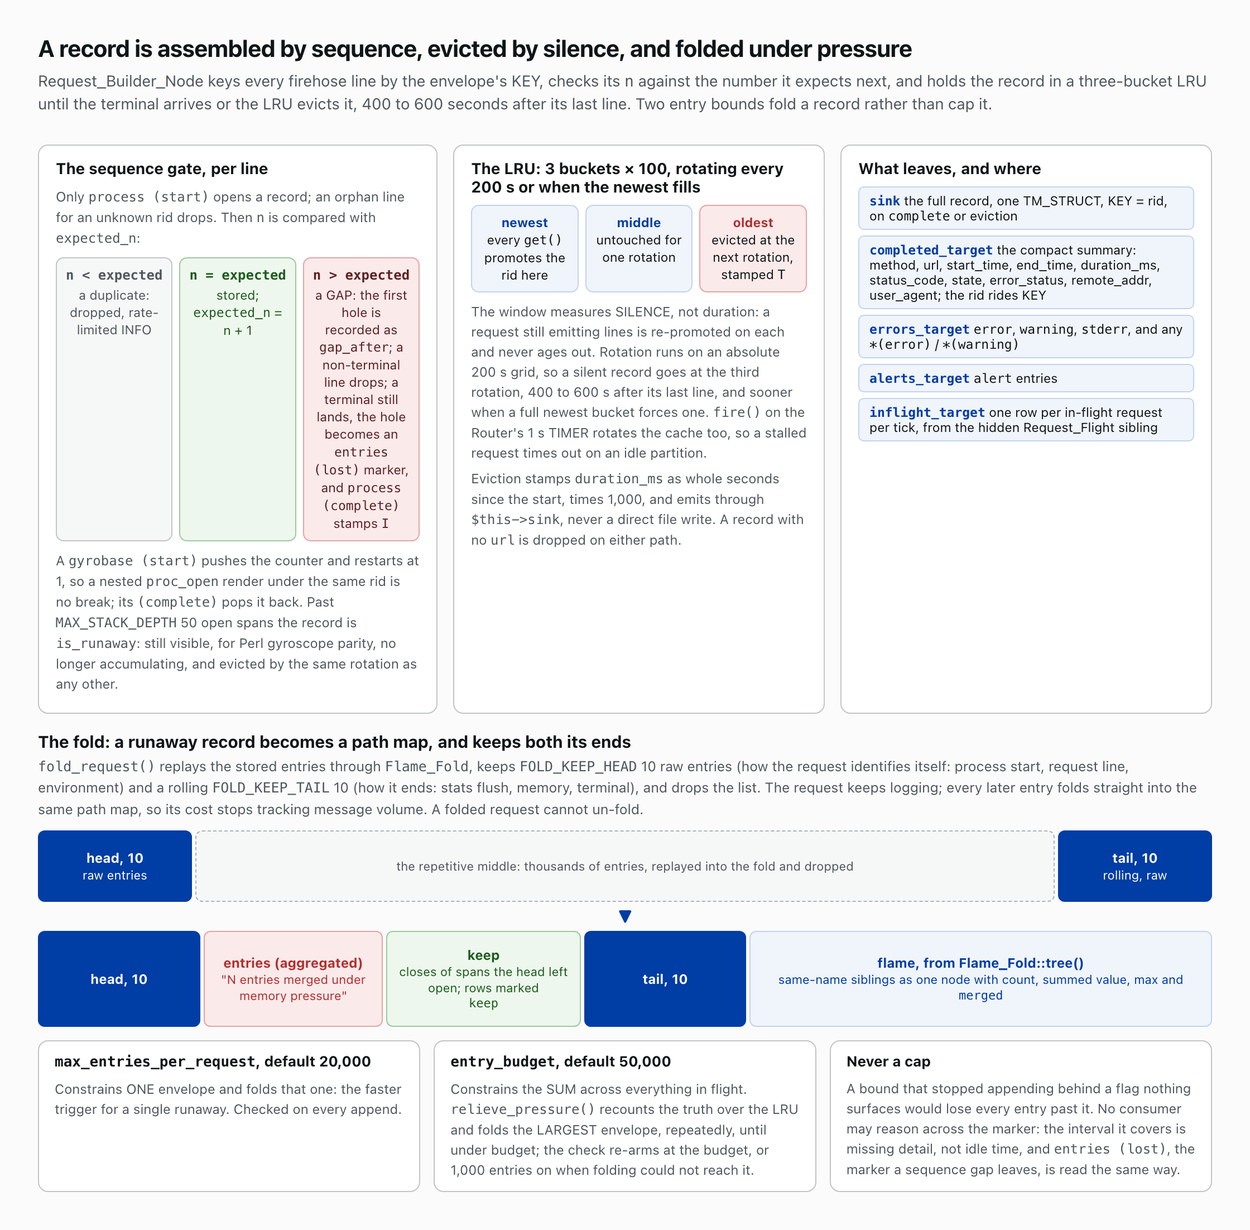
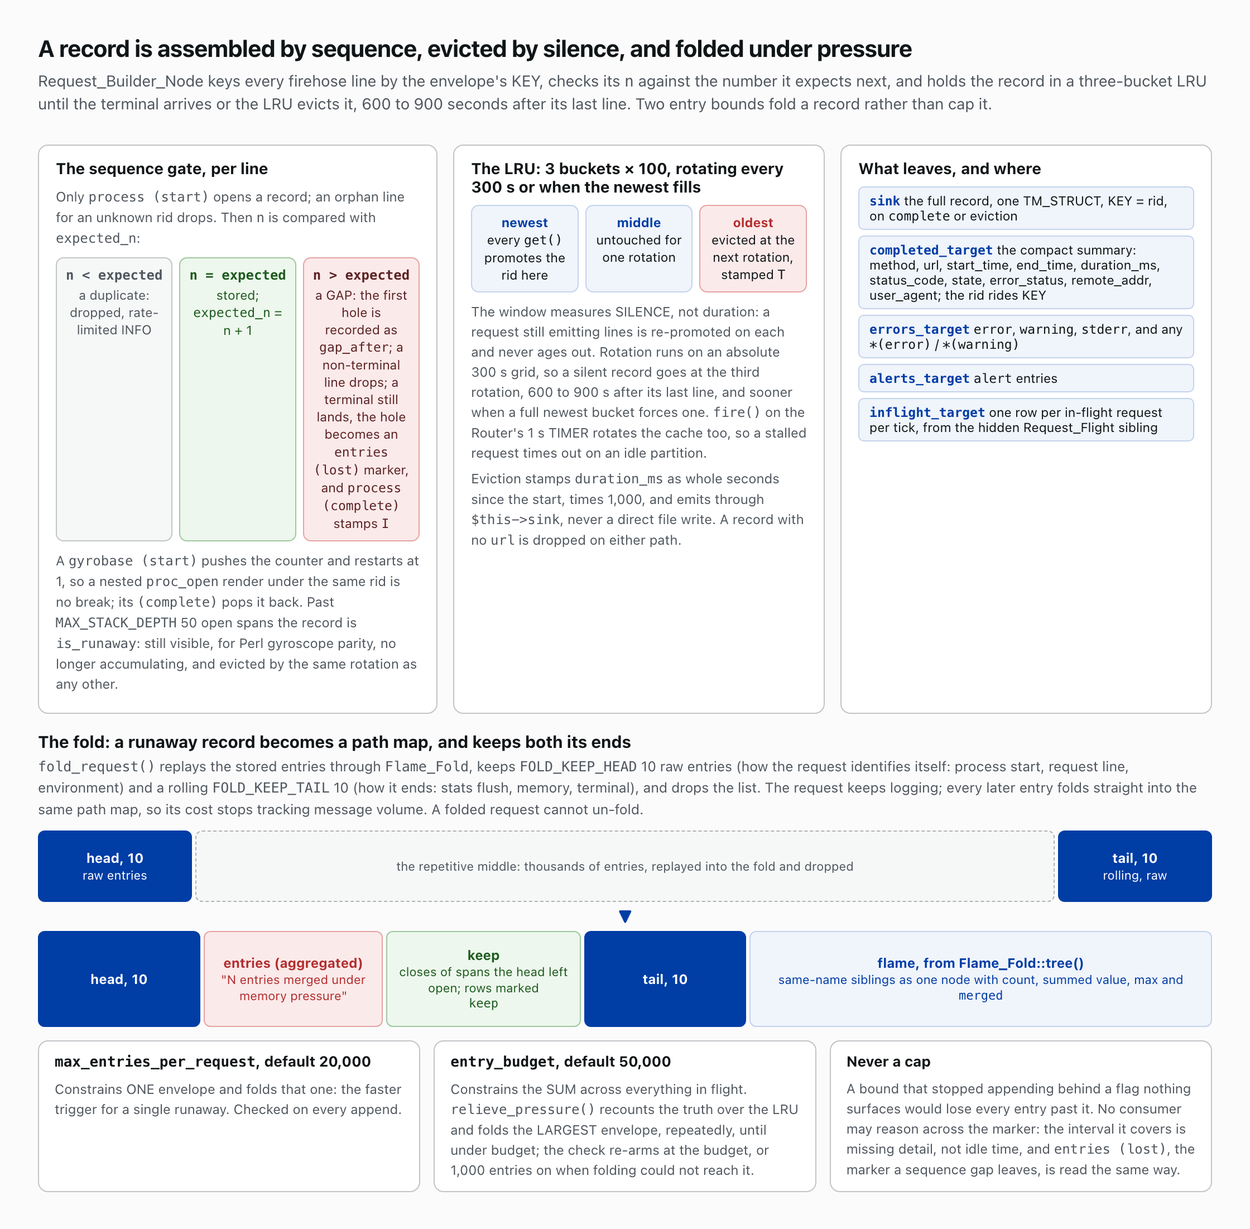
fix(request-builder): the eviction window outlasts a worker's lifetime
A silent request was evicted as timed out 400 to 600 seconds after its
last line, and a worker's `v1/workers/spawn` request lives the worker's
whole 595-second `max_runtime`, so every one of them was written out with
`error_status='T'` before its terminal arrived. The LRU rotates every 300
seconds now, so the window is 600 to 900; the docs, the diagrams and the
debugging skill say so, and a test pins the window past the lifetime.

diff --git a/docs/img/ag-request-assembly.html b/docs/img/ag-request-assembly.html
@@ -39,7 +39,7 @@
 </style>
 <div class="sheet">
 <h1>A record is assembled by sequence, evicted by silence, and folded under pressure</h1>
-<p class="sub">Request_Builder_Node keys every firehose line by the envelope's KEY, checks its <span class="mono">n</span> against the number it expects next, and holds the record in a three-bucket LRU until the terminal arrives or the LRU evicts it, 400 to 600 seconds after its last line. Two entry bounds fold a record rather than cap it.</p>
+<p class="sub">Request_Builder_Node keys every firehose line by the envelope's KEY, checks its <span class="mono">n</span> against the number it expects next, and holds the record in a three-bucket LRU until the terminal arrives or the LRU evicts it, 600 to 900 seconds after its last line. Two entry bounds fold a record rather than cap it.</p>
 
 <div class="top">
   <div class="card">
@@ -53,13 +53,13 @@
     <p>A <span class="mono">gyrobase (start)</span> pushes the counter and restarts at 1, so a nested <span class="mono">proc_open</span> render under the same rid is no break; its <span class="mono">(complete)</span> pops it back. Past <span class="mono">MAX_STACK_DEPTH</span> 50 open spans the record is <span class="mono">is_runaway</span>: still visible, for Perl gyroscope parity, no longer accumulating, and evicted by the same rotation as any other.</p>
   </div>
   <div class="card">
-    <h3>The LRU: 3 buckets × 100, rotating every 200 s or when the newest fills</h3>
+    <h3>The LRU: 3 buckets × 100, rotating every 300 s or when the newest fills</h3>
     <div class="buckets">
       <div class="bk"><b>newest</b>every <span class="mono">get()</span> promotes the rid here</div>
       <div class="bk"><b>middle</b>untouched for one rotation</div>
       <div class="bk old"><b>oldest</b>evicted at the next rotation, stamped <span class="mono">T</span></div>
     </div>
-    <p>The window measures SILENCE, not duration: a request still emitting lines is re-promoted on each and never ages out. Rotation runs on an absolute 200 s grid, so a silent record goes at the third rotation, 400 to 600 s after its last line, and sooner when a full newest bucket forces one. <span class="mono">fire()</span> on the Router's 1 s TIMER rotates the cache too, so a stalled request times out on an idle partition.</p><p>Eviction stamps <span class="mono">duration_ms</span> as whole seconds since the start, times 1,000, and emits through <span class="mono">$this-&gt;sink</span>, never a direct file write. A record with no <span class="mono">url</span> is dropped on either path.</p>
+    <p>The window measures SILENCE, not duration: a request still emitting lines is re-promoted on each and never ages out. Rotation runs on an absolute 300 s grid, so a silent record goes at the third rotation, 600 to 900 s after its last line, and sooner when a full newest bucket forces one. <span class="mono">fire()</span> on the Router's 1 s TIMER rotates the cache too, so a stalled request times out on an idle partition.</p><p>Eviction stamps <span class="mono">duration_ms</span> as whole seconds since the start, times 1,000, and emits through <span class="mono">$this-&gt;sink</span>, never a direct file write. A record with no <span class="mono">url</span> is dropped on either path.</p>
   </div>
   <div class="card">
     <h3>What leaves, and where</h3>

diff --git a/docs/img/dec-bucket-filing.html b/docs/img/dec-bucket-filing.html
@@ -80,7 +80,7 @@
     <div class="step">
       <h3>1 · Which bucket: the completion, clamped</h3>
       <div class="formula">bucket = min( now, timestamp + round( duration_ms / 1000 ) )</div>
-      <p>Filing under <span class="m">timestamp</span>, the START, would put a long request in a bucket that may already have closed. Completion needs no new field, and for an aborted request it is the abort moment, because <span class="m">Request_Builder</span> sets <span class="m">duration_ms = now - start</span> at eviction. That removes the request's own duration from the exposure, which the 600 s assembly window bounds at ten minutes.</p>
+      <p>Filing under <span class="m">timestamp</span>, the START, would put a long request in a bucket that may already have closed. Completion needs no new field, and for an aborted request it is the abort moment, because <span class="m">Request_Builder</span> sets <span class="m">duration_ms = now - start</span> at eviction. That removes the request's own duration from the exposure, which the 900 s assembly window bounds at fifteen minutes.</p>
       <p><b>Clamped to now:</b> a completed request cannot have finished after it reached us, so a skewed spoke clock or a bogus duration cannot file into a future bucket that readers, walking backwards from now, would never reach.</p>
     </div>
     <div class="arrow">&rarr;</div>

diff --git a/docs/img/d06b.html b/docs/img/d06b.html
@@ -87,7 +87,7 @@
   <div class="abs card node" style="left:260px;top:220px;width:262px;min-height:240px">
     <h3>Request_Builder_Node</h3>
     <p>Keys an envelope per request id, folds each line in, checks the line numbers for gaps, and emits the record when the terminal arrives.</p>
-    <p>The consumer checkpoints the envelopes into its offsetlog, so a respawned worker resumes half-built requests. A request silent for 600 seconds is evicted as timed out.</p>
+    <p>The consumer checkpoints the envelopes into its offsetlog, so a respawned worker resumes half-built requests. A request silent for 900 seconds is evicted as timed out.</p>
     <div class="status"><div class="chip"><b>F</b> fatal</div><div class="chip"><b>T</b> timeout</div><div class="chip"><b>A</b> abort</div><div class="chip"><b>I</b> gap</div></div>
   </div>
 

diff --git a/tests/unit/RequestBuilderTest.php b/tests/unit/RequestBuilderTest.php
@@ -1278,6 +1278,15 @@ class RequestBuilderTest extends TestCase {
 		);
 	}
 
+	/**
+	 * A worker's spawn request lives its whole `max_runtime`, 595 seconds, so
+	 * the window a silent request is given must outlast one: at 400 to 600
+	 * every `v1/workers/spawn` timed out mid-life.
+	 */
+	public function test_the_eviction_window_outlasts_a_workers_lifetime(): void {
+		$this->assertSame( 900, Request_Builder_Node::DEFAULT_EVICTION_WINDOW_SEC );
+	}
+
 	public function test_a_bucket_count_off_the_default_says_the_borrowed_eviction_window_no_longer_measures_it(): void {
 		// `DEFAULT_EVICTION_WINDOW_SEC` is a magnitude other code borrows, and a
 		// constant cannot follow a per-topology declaration. Declaring a
@@ -1290,7 +1299,7 @@ class RequestBuilderTest extends TestCase {
 		$node->arguments( [ '137', '7' ] );
 
 		$this->assertStringContainsString( 'eviction window', $buf );
-		$this->assertStringContainsString( '1400', $buf, 'the window this declaration actually has' );
+		$this->assertStringContainsString( '2100', $buf, 'the window this declaration actually has' );
 		$node->remove_node();
 	}
 

diff --git a/includes/class-request-builder-node.php b/includes/class-request-builder-node.php
@@ -127,8 +127,12 @@ class Request_Builder_Node extends Timer_Node {
 	/** Default number of rotating LRU buckets. */
 	public const DEFAULT_NUM_BUCKETS = 3;
 
-	/** Bucket rotation interval in seconds; see DEFAULT_EVICTION_WINDOW_SEC below. */
-	private const BUCKET_ROTATION_S = 200;
+	/**
+	 * Bucket rotation interval in seconds; see DEFAULT_EVICTION_WINDOW_SEC
+	 * below. Three rotations outlast a worker's 595-second lifetime, so its
+	 * spawn request lands complete rather than timed out.
+	 */
+	private const BUCKET_ROTATION_S = 300;
 
 	/**
 	 * The longest a request stays in flight under the DEFAULT declaration.

diff --git a/docs/architecture-decisions.md b/docs/architecture-decisions.md
@@ -244,9 +244,9 @@ A one-character field name is the same cost half paid: it still spends 6 bytes o
 
 A stats write must land where a reader will actually read it, which takes two halves: file a request under the bucket it FINISHED in, and send a write into an already-folded hour to the hour key.
 
-![A request's stats write across a timeline and three steps. The timeline: a request starts in hour H minus 1 and completes in hour H, so min(now, timestamp + round(duration_ms / 1000)) files it in a five-minute bucket of H rather than the bucket it started in; hour H closes, and at least an hour later the flush folds it into urls_h:{shard}:{H} and records H in folded_hours; the record arrives only after that, as a replay does. Beneath it, two writes of that record: into its fine bucket, urls:{shard}:{bucket}, where decision 17's reader skips a folded hour's fine buckets and nothing reads it, and through url_shard_intent() into urls_h:{shard}:{H}, the key the reader takes. The steps: first, which bucket, the completion rather than the start, which needs no new field and for an aborted request is the abort moment, because Request_Builder sets duration_ms = now - start at eviction, so the 600-second assembly window bounds the exposure at ten minutes; the clamp to now keeps a skewed spoke clock or a bogus duration out of a future bucket readers would never reach. Second, which key: url_shard_intent() addresses url_shard_parts() under the five-minute bucket while the hour is not in folded_hours, and url_hour_parts() under the hour key once it is, with the same merge_url_row() and cap_url_rows() ceiling. Third, when the memo is right: folded_hours is per process and one partition has one worker, so only a respawn can stale it, and flush() rolls up before it persists so the first flush after a respawn probes the coarse tier first. Below, the trigger is routine: deactivating complete, running gc --force and reactivating replays the whole retention window with original timestamps, while in steady state records reach the builder about 14 seconds old against a fine tail of 65 to 120 minutes.](img/dec-bucket-filing.png)
+![A request's stats write across a timeline and three steps. The timeline: a request starts in hour H minus 1 and completes in hour H, so min(now, timestamp + round(duration_ms / 1000)) files it in a five-minute bucket of H rather than the bucket it started in; hour H closes, and at least an hour later the flush folds it into urls_h:{shard}:{H} and records H in folded_hours; the record arrives only after that, as a replay does. Beneath it, two writes of that record: into its fine bucket, urls:{shard}:{bucket}, where decision 17's reader skips a folded hour's fine buckets and nothing reads it, and through url_shard_intent() into urls_h:{shard}:{H}, the key the reader takes. The steps: first, which bucket, the completion rather than the start, which needs no new field and for an aborted request is the abort moment, because Request_Builder sets duration_ms = now - start at eviction, so the 900-second assembly window bounds the exposure at fifteen minutes; the clamp to now keeps a skewed spoke clock or a bogus duration out of a future bucket readers would never reach. Second, which key: url_shard_intent() addresses url_shard_parts() under the five-minute bucket while the hour is not in folded_hours, and url_hour_parts() under the hour key once it is, with the same merge_url_row() and cap_url_rows() ceiling. Third, when the memo is right: folded_hours is per process and one partition has one worker, so only a respawn can stale it, and flush() rolls up before it persists so the first flush after a respawn probes the coarse tier first. Below, the trigger is routine: deactivating complete, running gc --force and reactivating replays the whole retention window with original timestamps, while in steady state records reach the builder about 14 seconds old against a fine tail of 65 to 120 minutes.](img/dec-bucket-filing.png)
 
-The record reaches `Flame_Builder_Node` at completion, so filing it under `timestamp`, the START, puts a long request in a bucket that may already have closed. The bucket is therefore `min( now, timestamp + round( duration_ms / 1000 ) )`: the completion needs no new field, and for an aborted request it is the abort moment, because `Request_Builder` sets `duration_ms = now - start` at eviction. That removes the request's own duration from the exposure, which the 600s assembly window bounds at ten minutes. The completion is **clamped to now**: a completed request cannot have finished after it reached us, and a skewed spoke clock or a bogus duration filing into a future bucket, which readers walking backwards from now never reach, is the same written-then-unreadable failure this decision exists to close.
+The record reaches `Flame_Builder_Node` at completion, so filing it under `timestamp`, the START, puts a long request in a bucket that may already have closed. The bucket is therefore `min( now, timestamp + round( duration_ms / 1000 ) )`: the completion needs no new field, and for an aborted request it is the abort moment, because `Request_Builder` sets `duration_ms = now - start` at eviction. That removes the request's own duration from the exposure, which the 900s assembly window bounds at fifteen minutes. The completion is **clamped to now**: a completed request cannot have finished after it reached us, and a skewed spoke clock or a bogus duration filing into a future bucket, which readers walking backwards from now never reach, is the same written-then-unreadable failure this decision exists to close.
 
 **Filing by completion does not remove transit**, and that is the second half. An hour folds exactly once (`folded_hours`), and [decision 17](#decision-17-the-url-index-is-stored-at-two-resolutions-and-the-coarse-one-is-derived) has the reader skip a folded hour's fine buckets, because they outlive the fold and reading both counts the hour twice. So a record arriving after its hour folded, written to its fine bucket, would sit where nothing reads it and never merge into the coarse key that replaced it. `Flame_Builder_Node::url_shard_intent()` picks the tier: a bucket whose hour this process has folded addresses `Stats_Store::url_hour_parts()` under the hour key rather than `url_shard_parts()` under the bucket, with the same `merge_url_row()` and the same `cap_url_rows()` ceiling; only the key differs. **The trigger is routine, not exotic**: `wp nodes deactivate complete; wp nodes gc --force; wp nodes activate complete` replays the whole retention window, and every replayed record carries its original timestamp. Steady state never sees it: measured on a hub, records reach the builder ~14s old against a fine tail of 65 to 120 minutes. **`folded_hours` is per-process, and one partition has one worker** (`persist_aggregate_stats()` says so: read-then-write is not atomic), so a respawn is the only way the memo goes stale, and there is no peer to race. `flush()` therefore rolls up BEFORE it persists: the roll-up probes the coarse tier, so the first flush after a respawn has an accurate memo before a single row is placed.
 

diff --git a/.claude/skills/event-logger-nodes-debugging/SKILL.md b/.claude/skills/event-logger-nodes-debugging/SKILL.md
@@ -96,7 +96,7 @@ Valid `ls` flags are `-a`, `-c`, `-l`, `-s` and `-t`, combinable as `-alst`. The
 | `GET_CACHE` | `request-builder` | `{ pending_count, oldest_rid, oldest_age_s, sample, line_counter }` |
 | `GET_STATS` | `flame-builder` | `{ stats_count, pending_url_count, intern_count, pending_buckets, last_flush_age_s, auto_tune_pending_count, is_hub, significant_events_count, mirror_held_frames, mirror_held_bytes }` |
 
-A `line_counter` of 0 on a busy site means the firehose Consumer is reading nothing. A climbing `oldest_age_s` means requests are stranding in flight — `Request_Builder_Node` evicts them at `DEFAULT_EVICTION_WINDOW_SEC` (600 seconds: three buckets rotating every 200) and writes them out with `error_status='T'`. `mirror_held_bytes` measures every frame the durable stats mirror is holding for a bucket that has yet to close, and `mirror_held_frames` beside it is the WIDEST single namespace's held count — the number `MAX_HELD_FRAMES` (10,000 a namespace) is against, since that bound is per namespace and a cross-namespace total cannot warn about it. Past the bound `spill_over_backstop()` writes the lowest-ranked tenth to the partition early rather than dropping it. `MAX_CHECKPOINT_MIRROR_BYTES` (2 MB) bounds only what one CHECKPOINT carries, narrowest frame first — ordered by entry count, which is free, with the budget enforced against real encoded bytes — and the rate-limited drop log naming the widest held frame is the signal that the held set has outgrown that budget. A dropped frame stays in the buffer and still reaches the mirror at bucket close; the next write to its bucket re-merges it from memcache, so it is lost only when the process and memcache both fail before that close.
+A `line_counter` of 0 on a busy site means the firehose Consumer is reading nothing. A climbing `oldest_age_s` means requests are stranding in flight — `Request_Builder_Node` evicts them at `DEFAULT_EVICTION_WINDOW_SEC` (900 seconds: three buckets rotating every 300, so a worker's 595-second spawn request outlives no window) and writes them out with `error_status='T'`. `mirror_held_bytes` measures every frame the durable stats mirror is holding for a bucket that has yet to close, and `mirror_held_frames` beside it is the WIDEST single namespace's held count — the number `MAX_HELD_FRAMES` (10,000 a namespace) is against, since that bound is per namespace and a cross-namespace total cannot warn about it. Past the bound `spill_over_backstop()` writes the lowest-ranked tenth to the partition early rather than dropping it. `MAX_CHECKPOINT_MIRROR_BYTES` (2 MB) bounds only what one CHECKPOINT carries, narrowest frame first — ordered by entry count, which is free, with the budget enforced against real encoded bytes — and the rate-limited drop log naming the widest held frame is the signal that the held set has outgrown that budget. A dropped frame stays in the buffer and still reaches the mirror at bucket close; the next write to its bucket re-merges it from memcache, so it is lost only when the process and memcache both fail before that close.
 
 Once the in-flight cache is wedged rather than merely slow, `cmd request-builder:config purge` is the escalation: it drops every in-flight request and reports how many went. Those entries are DISCARDED, never emitted as timed out — a wedged builder holds requests that will never complete, and answering that with thousands of doc writes costs more than losing records already known to be dead. Ordinary bucket eviction still emits. The verb declares `action`, so the topology editor withholds it from the persisted `.tsl` and it stays an operator verb rather than a line re-running on every worker boot.
 

diff --git a/docs/the-event-logger.md b/docs/the-event-logger.md
@@ -22,7 +22,7 @@ The firehose interleaves every request's lines. Four topologies pull them apart:
 
 ![A map of the firehose and the partitions downstream of it: two topologies split the firehose through a Tee, a third builds flames and statistics from the records, and each partition is joined by arrow to the dashboard or worker that reads it](img/d06b.png)
 
-Assembly happens in the workers, where the request is over and nobody is waiting. [Request_Builder_Node](../includes/class-request-builder-node.php) keys an envelope per request id, folds each line in, checks the line numbers for gaps, and emits the record to the requests partition when the terminal arrives. A summary of each finished request goes to completed, error and warning lines to errors, and alert lines to alerts; [Request_Flight_Node](../includes/class-request-flight-node.php) writes an in-flight snapshot to gyroscope on the router's one-second tick. The consumer checkpoints the envelopes into its offsetlog, so a respawned worker resumes half-built requests, and a silent request is evicted as timed out after 600 seconds. Four statuses mark an unclean end, F for a fatal, T for a timeout, A for an abort and I for a gap; they tell you whether a measurement is missing or the request was.
+Assembly happens in the workers, where the request is over and nobody is waiting. [Request_Builder_Node](../includes/class-request-builder-node.php) keys an envelope per request id, folds each line in, checks the line numbers for gaps, and emits the record to the requests partition when the terminal arrives. A summary of each finished request goes to completed, error and warning lines to errors, and alert lines to alerts; [Request_Flight_Node](../includes/class-request-flight-node.php) writes an in-flight snapshot to gyroscope on the router's one-second tick. The consumer checkpoints the envelopes into its offsetlog, so a respawned worker resumes half-built requests, and a silent request is evicted as timed out after 900 seconds at most. Four statuses mark an unclean end, F for a fatal, T for a timeout, A for an abort and I for a gap; they tell you whether a measurement is missing or the request was.
 
 Gyroscope shows what is in flight now, Request Log a row per finished request, and Errors the error lines; a bridge carries the runtime's own diagnostics into the active request's errors. Settings holds the three switches, `enable_logging`, `log_memory` and `flush_every_line`, the effective configuration and the ruleset editor; a change applies at once through the `rules` verbs. [Dashboards](dashboards.md) covers what each one reads.
 

diff --git a/docs/architecture-guide.md b/docs/architecture-guide.md
@@ -438,7 +438,7 @@ Cost on regular WP requests is one array append at boot — the `.tsl` files the
 
 [`Request_Builder_Node`](../includes/class-request-builder-node.php) assembles requests from firehose entries via the substrate's [`LRU_Cache`](https://github.com/Automattic/newspack-nodes/blob/v2.56.0/includes/class-lru-cache.php), a `Timer_Node` that hitchhikes the Router's 1s TIMER (registered in `arguments()`) so `fire()` rotates the in-flight cache even when no firehose line arrives to drive rotation via `fill()`.
 
-![Request assembly: the per-line sequence gate (a duplicate n is dropped, a matching n is stored, a gap records gap_after and drops all but a terminal, which lands and leaves an entries (lost) marker); the three-bucket LRU rotating every 200 seconds, where every get() promotes and the oldest bucket evicts with T, 400 to 600 seconds after a record's last line; the five outputs, sink, completed_target with its ten-key summary, errors_target, alerts_target and inflight_target; and the fold, which keeps ten head and ten tail entries around an entries (aggregated) marker and the kept closes, with the middle merged into a Flame_Fold tree, under max_entries_per_request 20,000 for one record and entry_budget 50,000 across all.](img/ag-request-assembly.png)
+![Request assembly: the per-line sequence gate (a duplicate n is dropped, a matching n is stored, a gap records gap_after and drops all but a terminal, which lands and leaves an entries (lost) marker); the three-bucket LRU rotating every 300 seconds, where every get() promotes and the oldest bucket evicts with T, 600 to 900 seconds after a record's last line; the five outputs, sink, completed_target with its ten-key summary, errors_target, alerts_target and inflight_target; and the fold, which keeps ten head and ten tail entries around an entries (aggregated) marker and the kept closes, with the middle merged into a Flame_Fold tree, under max_entries_per_request 20,000 for one record and entry_budget 50,000 across all.](img/ag-request-assembly.png)
 
 ```php
 class Request_Builder_Node extends Timer_Node {

diff --git a/CHANGELOG.md b/CHANGELOG.md
@@ -31,6 +31,10 @@ and this project adheres to [Semantic Versioning](https://semver.org/spec/v2.0.0
   one cache write each, though the mirror never holds that tier.
 
 ### Changed
+- **A silent request is given 600 to 900 seconds before it is evicted as
+  timed out**, up from 400 to 600: the request builder's LRU rotates every
+  300 seconds. A worker's `v1/workers/spawn` request lives its whole
+  595-second `max_runtime`, and the old window timed every one out.
 - **Every `App\Core` callback asks `Log_Manager::started_instance()`**,
   the wrapped listeners included: a wrapper outlives its request, and one
   firing with nowhere to log now calls through untimed rather than
